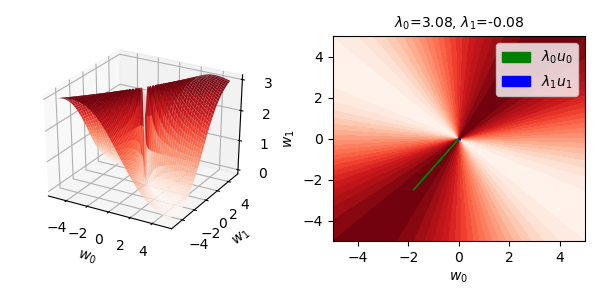
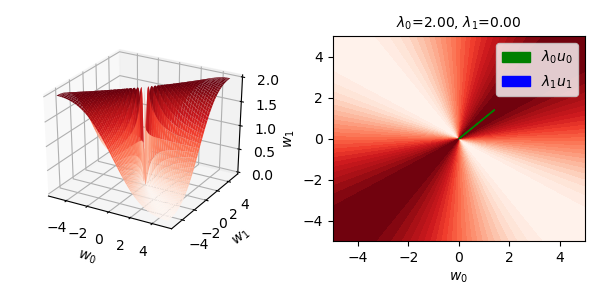
fix nonzero eigenvalues for semidefinite

diff --git a/src/18_normalized_QF.py b/src/18_normalized_QF.py
@@ -62,8 +62,8 @@ if __name__ == '__main__':
     plot_QF_surface(Q, fn='../img/18_normalized_indefiniteQF.png')
     
     Q = np.array([
-        [1, 2],
-        [1, 2]
+        [1, 1],
+        [1, 1]
     ])
     plot_QF_surface(Q, fn='../img/18_normalized_semidefiniteQF.png')
     

diff --git a/src/18_quadratic_form.py b/src/18_quadratic_form.py
@@ -63,8 +63,8 @@ if __name__ == '__main__':
     plot_QF_surface(Q, fn='../img/18_indefiniteQF.png')
     
     Q = np.array([
-        [1, 2],
-        [1, 2]
+        [1, 1],
+        [1, 1]
     ])
     plot_QF_surface(Q, fn='../img/18_semidefiniteQF.png')
     

diff --git a/notes.md b/notes.md
@@ -1343,7 +1343,7 @@ Thus, $\text{rank } \bold A \bold A^\top = \text{rank }\bold A = r.$
 * **Normalized QF.** One other way of analyzing the energy function is by 'normalizing' it, i.e. computing 
   $$\tilde f_\bold Q(\bold x) = \frac{\bold x^\top \bold Q \bold x}{\bold x^\top\bold x} = \sum_{i,j=1}^n q_{ij} \frac{x_i x_j}{\sum_{i=1}^n {x_i}^2}.$$
 
-  Since we are only dividing the the norm squared of $\bold x,$ the two principal axes $\pm\bold u_1$ and $\pm\bold u_n$ should still be the same directions of greatest increase and decrease. Indeed, this is verified by the ff. plots generated in `18_normalized_QF.py`. Observe that, unlike before, the plots are now bounded, i.e. by $\lambda_1$ and $\lambda_n.$ It has, however, a singularity at the origin. 
+  Since we are only dividing the the norm squared of $\bold x,$ the two principal axes $\pm\bold u_1$ and $\pm\bold u_n$ should still be the same directions of greatest increase and decrease. Indeed, this is verified by the ff. plots generated in `18_normalized_QF.py`. Observe that, unlike before, the plots are now bounded, i.e. by $\lambda_1$ and $\lambda_n.$ It has, however, a singularity at the origin. Having 'fixed rate' of energy increase now along the principal axes is more straightforward to see now that the energy function actually fixed along these directions: $\tilde f_\bold Q(a\bold u_i) = \lambda_i$ for any scalar $a.$ 
   
   <br>
 
